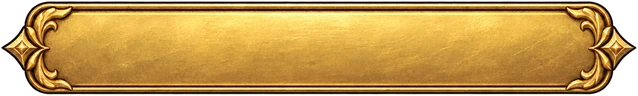
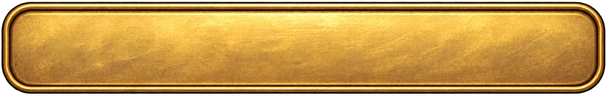
画面の部品：第7弾の描き直し6枚（両端の飾りなし）に差し替え
ユーザーの ZIP「Seimon_UI_Quality7_Fixed_20261024」のボタン（金・暗い・赤）・タブ・音量の溝・説明の台。
- tools/design/ui67_build.py に --fixed7（6枚だけ切り出し直す）。音量の金色の棒の切り出し位置も新しい絵に合わせた
- uiParts.css：飾りの分だけ広く取っていた端の幅を、角の丸みに合わせて細くした（文字の場所が広くなる）
- 記録：docs/design/ui-quality7fix-20261023/10_受け取り結果_UTF8.txt・比べた画像 20_組み込み前後_title_settings.webp

Claude-Session: https://claude.ai/code/session_017WQbmD1PjqFYPU1QptgkxD

diff --git a/src/ui/styles/uiParts.css b/src/ui/styles/uiParts.css
@@ -2,7 +2,8 @@
  * デザイン第6弾・第7弾の部品（2026-10-23 納品）。それまでプログラムで描いていた部品を絵にする。
  * 切り出しは tools/design/ui67_build.py。記録は docs/design/ui-quality7-20261023/10_受け取り結果_UTF8.txt
  *
- * ボタン・タブ・説明の台は border-image で「両端の飾りはそのまま、真ん中だけ伸ばす」。
+ * ボタン・タブ・説明の台は border-image で「両端（角の丸み）はそのまま、真ん中だけ伸ばす」。
+ * 2026-10-24：両端の飾りを無くした描き直し6枚に差し替え（ui67_build.py --fixed7）。端の幅を角の丸みに合わせて細くした
  * slice の数字は切り出した絵（高さ 96〜120px）の上での端の幅、/ のあとが画面での幅
  */
 
@@ -10,10 +11,10 @@
 .btn {
   padding: 0 4px;
   border-style: solid;
-  border-width: 7px 26px;
+  border-width: 7px 16px;
   border-color: transparent;
   border-radius: 0;
-  border-image: url('@assets/images/ui/button/btn_secondary.webp') 14 56 14 56 fill / 7px 26px / 0 stretch;
+  border-image: url('@assets/images/ui/button/btn_secondary.webp') 14 32 14 32 fill / 7px 16px / 0 stretch;
   background: none;
   color: #f1e8d2;
 }
@@ -29,8 +30,8 @@
 }
 
 .btn--primary {
-  border-width: 7px 32px;
-  border-image: url('@assets/images/ui/button/btn_primary.webp') 16 72 16 72 fill / 7px 32px / 0 stretch;
+  border-width: 7px 15px;
+  border-image: url('@assets/images/ui/button/btn_primary.webp') 16 34 16 34 fill / 7px 15px / 0 stretch;
   color: #241806;
   text-shadow: 0 1px 0 rgb(255 240 200 / 0.45);
 }
@@ -45,7 +46,7 @@
 }
 
 .btn--danger {
-  border-image: url('@assets/images/ui/button/btn_danger.webp') 18 70 18 70 fill / 7px 26px / 0 stretch;
+  border-image: url('@assets/images/ui/button/btn_danger.webp') 18 40 18 40 fill / 7px 16px / 0 stretch;
   color: #ffe6e0;
 }
 
@@ -53,15 +54,15 @@
   border-image-source: url('@assets/images/ui/button/btn_danger_pressed.webp');
 }
 
-/* 小さいボタン：両端の飾りを少し細く（文字の場所を広く） */
+/* 小さいボタン：端を少し細く（文字の場所を広く） */
 .btn--small {
-  border-width: 6px 20px;
-  border-image-width: 6px 20px;
+  border-width: 6px 13px;
+  border-image-width: 6px 13px;
 }
 
 .btn--primary.btn--small {
-  border-width: 6px 24px;
-  border-image-width: 6px 24px;
+  border-width: 6px 13px;
+  border-image-width: 6px 13px;
 }
 
 /* キーボードなどで選んでいるボタンの印：白い太枠ではなく、細い金の線 */
@@ -93,7 +94,7 @@
   border-width: 5px 15px;
   border-color: transparent;
   border-radius: 0;
-  border-image: url('@assets/images/ui/button/tab_off.webp') 10 36 10 36 fill / 5px 15px / 0 stretch;
+  border-image: url('@assets/images/ui/button/tab_off.webp') 10 32 10 32 fill / 5px 15px / 0 stretch;
   background: none;
   color: #e9dfc6;
 }
@@ -101,7 +102,7 @@
 .card-grid__tab.is-active,
 .deck__tab.is-active,
 .btn.options__choice.is-active {
-  border-image: url('@assets/images/ui/button/tab_on.webp') 12 36 20 36 fill / 5px 15px 8px / 0 stretch;
+  border-image: url('@assets/images/ui/button/tab_on.webp') 12 32 20 32 fill / 5px 15px 8px / 0 stretch;
   background: none;
   box-shadow: none;
   color: #241806;
@@ -225,7 +226,7 @@
   border-style: solid;
   border-width: 7px 21px;
   border-color: transparent;
-  border-image: url('@assets/images/ui/button/slider_track.webp') 12 36 12 36 fill / 7px 21px / 0 stretch;
+  border-image: url('@assets/images/ui/button/slider_track.webp') 12 24 12 24 fill / 7px 14px / 0 stretch;
   box-sizing: border-box;
 }
 
@@ -282,10 +283,10 @@
 /* ===== 第7弾 8：説明の文を置く台 ===== */
 .notice {
   border-style: solid;
-  border-width: 5px 7px 5px 19px;
+  border-width: 5px 14px;
   border-color: transparent;
   border-radius: 0;
-  border-image: url('@assets/images/ui/button/notice_panel.webp') 14 18 14 56 fill / 5px 7px 5px 19px / 0 stretch;
+  border-image: url('@assets/images/ui/button/notice_panel.webp') 14 38 14 38 fill / 5px 14px / 0 stretch;
   background: none;
   padding: 6px 8px 6px 4px;
   color: #d9cfb6;

diff --git a/tools/design/ui67_build.py b/tools/design/ui67_build.py
@@ -2,6 +2,7 @@
 
 使い方：
   python3 -I tools/design/ui67_build.py <第6弾のフォルダ> <第7弾のフォルダ>
+  python3 -I tools/design/ui67_build.py --fixed7 <第7弾の描き直し6枚のフォルダ>（2026-10-24。その6枚だけ切り出し直す）
 
 書き出し先：assets/images/ui/battle/（光の帯・ターンの帯・数字・対戦の上のボタン）、assets/images/ui/hud/（話す印・きらめき）、
 assets/images/ui/button/（ボタン・タブ・戻る・増減・つまみ・説明の台）、assets/images/ui/worldmap/（地図の印・地名の札）
@@ -89,7 +90,25 @@ def digits(src: Path, out: Path) -> None:
     split_row(img, (split, int(rows[-1]) + 1), ['heal_plus'] + [f'heal_{n}' for n in range(10)], out, 96, trim_vertical=False)
 
 
+def seven_fixed(folder: Path) -> None:
+    """第7弾の描き直し6枚（2026-10-24 納品・両端の飾りなし）だけを切り出し直す。ファイル名・大きさは第7弾と同じ"""
+    btn = ROOT / 'button'
+    cut(folder / 'btn_primary.png', ['btn_primary', 'btn_primary_pressed', 'btn_primary_disabled'], btn, height=96)
+    cut(folder / 'btn_secondary.png', ['btn_secondary', 'btn_secondary_pressed', 'btn_secondary_disabled'], btn, height=96)
+    cut(folder / 'btn_danger.png', ['btn_danger', 'btn_danger_pressed'], btn, height=120)
+    cut(folder / 'tab_chips.png', ['tab_on', 'tab_off'], btn, height=88)
+    cut(folder / 'slider.png', ['slider_track', 'slider_fill', 'slider_knob'], btn, height={'slider_track': 48, 'slider_fill': 48, 'slider_knob': 88})
+    cut(folder / 'notice_panel.png', ['notice_panel'], btn, height=120)
+    # 音量の金色の部分（描き直しの絵では溝の中の金色の棒の位置が変わった。高さ 48 の絵で）
+    fill = Image.open(btn / 'slider_fill.webp').convert('RGBA')
+    save(fill.crop((12, 12, 378, 37)), btn / 'slider_gold.webp')
+
+
 def main() -> None:
+    if sys.argv[1] == '--fixed7':
+        # 使い方：python3 -I tools/design/ui67_build.py --fixed7 <描き直し6枚のフォルダ>
+        seven_fixed(Path(sys.argv[2]))
+        return
     six, seven = Path(sys.argv[1]), Path(sys.argv[2])
     battle, hud, btn, wmap = ROOT / 'battle', ROOT / 'hud', ROOT / 'button', ROOT / 'worldmap'
     # 第6弾

diff --git a/docs/handoff.md b/docs/handoff.md
@@ -38,7 +38,7 @@
 | 対戦画面の改訂R2（2026-10-24・公開済み `e1b48d9`・**iPhone 確認待ち**） | ユーザーの ZIP「Seimon_Claude_BattleLayout_R2_20261024」のフェーズ2だけ実装：相手の手札を自分と同じ大きさの裏向きで上に（実枚数・中身は出さない・引く/使う/マナ化で動く）、モンスターを 72→58（72/58/54 を比較）→ユーザー指示で左右の欄を細く・アイコンなしにして 66、手札（自分・相手とも）62→66、相手の列は 左＝状態・右＝マナ/山札/手札/捨札、真ん中の帯に最新の経過1行（押すと全部）、操作のボタンは自分のモンスターの右（ユーザー指示「下すぎて操作感に問題」で、いちばん下から移した。自分の列は 左＝マナなど・右＝ボタン）。ルール・カード・セーブ・画像は変更なし。記録と受入テストの結果は `docs/battle-layout-r2.md`、比較画像は `docs/design/battle-layout-r2-20261024/`。**フェーズ1（街・ダンジョン・NPC）は未着手**（動画4本・前の ZIP が届いていない） |
 | 歩く人物の見え方（2026-10-24・公開済み `8641fd1`） | ユーザーの試遊「プカプカ浮いて見える」「指でなぞるとクルクル回って、切り抜いて貼った絵のようでチープ」から：立っている人の呼吸の動きをやめた（`world.css`）、歩くときの体の上下（弾み）を 0 に、足元の影を広く濃く・少し下へ（接地の影）。向き：壁ぞいにすべるときも押している向きの絵のまま（斜めと正面の絵が1歩ごとに入れ替わっていた）、進めない向きへは 0.22 秒押し続けたときだけその場で向く（`worldScreen.ts` の `TURN_IN_PLACE_MS`） |
 | 世界地図 | **2026-10-23 作って公開（`9b6494b`）**（ユーザー案）：街の南の出口・家の壁の地図で開く画面を、ミスモンの世界地図（ユーザーが送った文字のない版。`assets/images/ui/worldmap/world_map.webp`）に。地方の名前6つ（ミスモン本編と同じ：フェルナ・ノルディス・アステリア・オルティガ・セイラン・ネブラシア。英語は仮訳）を絵の上に重ね、舞台の**フェルナ地方**は金色。街（現在地）とダンジョンを丸い印で置き、押すと下に説明。**南の出口からは出発できる・家の壁の地図は見るだけ**（それまでは家からも出発できた）。ダンジョンは各地方に置く方針（例：雪のダンジョン＝ノルディス地方）。印の位置・名前は**仮**（`src/data/worldMap.ts`）。画面は `dungeonSelectScreen.ts` |
-| 次の作業 | **新しいセッションでは、ユーザーの次の指示を待つ**（2026-10-24 ユーザー「まだ試遊はしていません」）。**ユーザーの試遊・iPhone 確認待ち**：対戦画面の改訂R2（公開済み `e1b48d9`。直しの指示が来たら `battleScreen.ts`・`battleTable.css`）。**歩き方の改善（2026-10-24・作業ブランチ・未公開）**：ユーザー「動きがチープ」を受け、ゲーム側だけで、足元を中心に体をわずかに縮める／伸ばす・進む向きへ少し前傾き・足元の影の動き・足の動きを落ち着かせる（`STEP_PER_HEIGHT` 0.45→0.58）（`worldScreen.ts` の `#bodyPose`）。比べた動画はチャットで送付。**絵の依頼**：「足を運ぶ途中（パッシング）」のポーズ `docs/design/walk-passing-20261024/`（ZIP をユーザーに渡し済み。まず主人公男性の正面1枚）。届いたら `tools/art/adult_walk_build.py` で「右足を前・右足で立ち左足を運ぶ・左足を前・左足で立ち右足を運ぶ」の4コマにする。黒い余白の補正は画面の下が切れたので取り消し済み（作業ブランチ）。上の帯の設定（`black-translucent`）の変更はユーザーの判断待ち。**改訂R2のフェーズ1（街・ダンジョン・NPC）は公開済み `44b33e2`・iPhone 確認待ち**（2026-10-24。特に、ホーム画面から開いたとき下の黒い帯が消えたか。黒い余白の補正・ダンジョン 1.5 倍／街 1.15 倍とカメラの遊び・先読み・人のまわり〔重ならない・「話す」・こちらを向く〕・スティックの輪の位置）。記録と確認の結果は `docs/battle-layout-r2.md` 6・7章。**ユーザーの iPhone 確認待ち**：歩く人物（浮かない・回らない・影）、対戦画面（相手の手札は裏向き・情報の箱は端・コマンドは自分の情報の下・相手のひと言）、攻撃終了の修正、ラズック、効果音、世界地図、デザイン第6・7弾、新しいアイコン。**届く予定**：第7弾の描き直し6枚（両端の飾りなし。依頼一式 `docs/design/ui-quality7fix-20261023/`）。**ユーザーが決めること**：ラズックの初期・収集の配分（8/8 か 10/6）、ちょうはつ・ダストキックの細かい裁定、相手のひと言の正式な台詞、ダンジョンの対戦の背景、大会の対戦相手の名前・人物像、先生の台詞（仮）、世界地図の印の位置・名前（仮）。ソラモ・ラズックの未定事項は上の「正式カード」の行。未着の依頼：歩きの「半歩」の絵、走る絵 |
+| 次の作業 | **新しいセッションでは、ユーザーの次の指示を待つ**（2026-10-24 ユーザー「まだ試遊はしていません」）。**ユーザーの試遊・iPhone 確認待ち**：対戦画面の改訂R2（公開済み `e1b48d9`。直しの指示が来たら `battleScreen.ts`・`battleTable.css`）。**第7弾の描き直し6枚（両端の飾りなし）を組み込んだ（2026-10-24・作業ブランチ・未公開。記録 `docs/design/ui-quality7fix-20261023/10_受け取り結果_UTF8.txt`）**。**歩き方の改善（2026-10-24・作業ブランチ・未公開）**：ユーザー「動きがチープ」を受け、ゲーム側だけで、足元を中心に体をわずかに縮める／伸ばす・進む向きへ少し前傾き・足元の影の動き・足の動きを落ち着かせる（`STEP_PER_HEIGHT` 0.45→0.58）（`worldScreen.ts` の `#bodyPose`）。比べた動画はチャットで送付。**絵の依頼**：「足を運ぶ途中（パッシング）」のポーズ `docs/design/walk-passing-20261024/`（ZIP をユーザーに渡し済み。まず主人公男性の正面1枚）。届いたら `tools/art/adult_walk_build.py` で「右足を前・右足で立ち左足を運ぶ・左足を前・左足で立ち右足を運ぶ」の4コマにする。黒い余白の補正は画面の下が切れたので取り消し済み（作業ブランチ）。上の帯の設定（`black-translucent`）の変更はユーザーの判断待ち。**改訂R2のフェーズ1（街・ダンジョン・NPC）は公開済み `44b33e2`・iPhone 確認待ち**（2026-10-24。特に、ホーム画面から開いたとき下の黒い帯が消えたか。黒い余白の補正・ダンジョン 1.5 倍／街 1.15 倍とカメラの遊び・先読み・人のまわり〔重ならない・「話す」・こちらを向く〕・スティックの輪の位置）。記録と確認の結果は `docs/battle-layout-r2.md` 6・7章。**ユーザーの iPhone 確認待ち**：歩く人物（浮かない・回らない・影）、対戦画面（相手の手札は裏向き・情報の箱は端・コマンドは自分の情報の下・相手のひと言）、攻撃終了の修正、ラズック、効果音、世界地図、デザイン第6・7弾、新しいアイコン。**届く予定**：第7弾の描き直し6枚（両端の飾りなし。依頼一式 `docs/design/ui-quality7fix-20261023/`）。**ユーザーが決めること**：ラズックの初期・収集の配分（8/8 か 10/6）、ちょうはつ・ダストキックの細かい裁定、相手のひと言の正式な台詞、ダンジョンの対戦の背景、大会の対戦相手の名前・人物像、先生の台詞（仮）、世界地図の印の位置・名前（仮）。ソラモ・ラズックの未定事項は上の「正式カード」の行。未着の依頼：歩きの「半歩」の絵、走る絵 |
 
 ## 2. これまでの作業（時系列・要点だけ）
 
